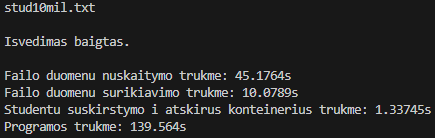
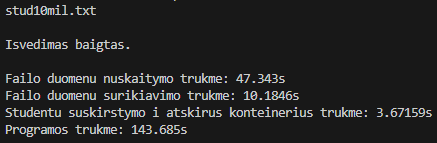
Sulygintas list, vector, deque versijų veikimas. Pertestuota programos trukmė su std::list konteineriais.

diff --git a/src/isvestis.cpp b/src/isvestis.cpp
@@ -353,55 +353,34 @@ void skirstoma_isvestis(std::string RAS_FAILO_NUORODA, Container<Studentas> &gru
 
     // VECTOR / DEQUE
 
-    // if (galutinio_pasirinkimas == "v")
-    // {
-    //     while (!grupe.empty())
-    //     {
-    //         Studentas &stud = grupe.back();
-    //         if (stud.rezas_vid >= 5.0)
-    //             geri.push_back(std::move(stud)); // std::move(stud) — perkelia, o ne kopijuoja!
-    //         else
-    //             blogi.push_back(std::move(stud));
-    //         grupe.pop_back();
-    //         if (grupe.size() % 1000000 == 0)
-    //             grupe.shrink_to_fit();
-    //     }
-    // }
-    // else if (galutinio_pasirinkimas == "m")
-    // {
-    //     while (!grupe.empty())
-    //     {
-    //         Studentas &stud = grupe.back();
-    //         if (stud.rezas_med >= 5.0)
-    //             geri.push_back(std::move(stud));
-    //         else
-    //             blogi.push_back(std::move(stud));
-    //         grupe.pop_back();
-    //         if (grupe.size() % 1000000 == 0)
-    //             grupe.shrink_to_fit();
-    //     }
-    // }
-
-    // LIST
-
-    auto it = grupe.begin();
-    while (it != grupe.end())
+    if (galutinio_pasirinkimas == "v")
     {
-        if (galutinio_pasirinkimas == "v")
+        while (!grupe.empty())
         {
-            if (it->rezas_vid >= 5.0)
-                geri.splice(geri.end(), grupe, it++); // splice — paima elementą (mazgą) iš std::list grupe (*it), ir PERKELIA (ne kopijuoja!!) jį į std::list geri (std::list grupe šio elemento nebelieka!!)
+            Studentas &stud = grupe.back();
+            if (stud.rezas_vid >= 5.0)
+                geri.push_back(std::move(stud)); // std::move(stud) — perkelia, o ne kopijuoja!
             else
-                blogi.splice(blogi.end(), grupe, it++); // it++ — įterpiama iteratoriaus nurodoma reikšmė, ir TADA iteratorius pastumiamas tolyn!
-            // atmintis licnai liuosint neraik, bo ir tai liuosyjas
+                blogi.push_back(std::move(stud));
+            grupe.pop_back();
+            // dekui/vektoriui (listas pats shrinkinasi)
+            // if (grupe.size() % 1000000 == 0)
+            //     grupe.shrink_to_fit();
         }
-        else if (galutinio_pasirinkimas == "m")
+    }
+    else if (galutinio_pasirinkimas == "m")
+    {
+        while (!grupe.empty())
         {
-            if (it->rezas_med >= 5.0)
-                geri.splice(geri.end(), grupe, it++); // it++ — įterpiama iteratoriaus nurodoma reikšmė, ir TADA iteratorius pastumiamas tolyn!
+            Studentas &stud = grupe.back();
+            if (stud.rezas_med >= 5.0)
+                geri.push_back(std::move(stud));
             else
-                blogi.splice(blogi.end(), grupe, it++);
-            // atmintis licnai liuosint neraik, bo ir tai liuosyjas
+                blogi.push_back(std::move(stud));
+            grupe.pop_back();
+            // dekui/vektoriui (listas pats shrinkinasi)
+            // if (grupe.size() % 1000000 == 0)
+            //     grupe.shrink_to_fit();
         }
     }
 

diff --git a/README.md b/README.md
@@ -34,27 +34,27 @@
 
 ##### 1 000 įrašų:
 
-![alt text](image-21.png)
-![alt text](image-22.png)
-![alt text](image-23.png)
-![alt text](image-24.png)
 ![alt text](image-25.png)
+![alt text](image-24.png)
+![alt text](image-23.png)
+![alt text](image-22.png)
+![alt text](image-21.png)
 
 ##### 10 000 įrašų:
 
-![alt text](image-16.png)
-![alt text](image-17.png)
-![alt text](image-18.png)
-![alt text](image-19.png)
 ![alt text](image-20.png)
+![alt text](image-19.png)
+![alt text](image-18.png)
+![alt text](image-17.png)
+![alt text](image-16.png)
 
 ##### 100 000 įrašų:
 
-![alt text](image-11.png)
-![alt text](image-12.png)
-![alt text](image-13.png)
-![alt text](image-14.png)
 ![alt text](image-15.png)
+![alt text](image-14.png)
+![alt text](image-13.png)
+![alt text](image-12.png)
+![alt text](image-11.png)
 
 ##### 1 000 000 įrašų:
 
